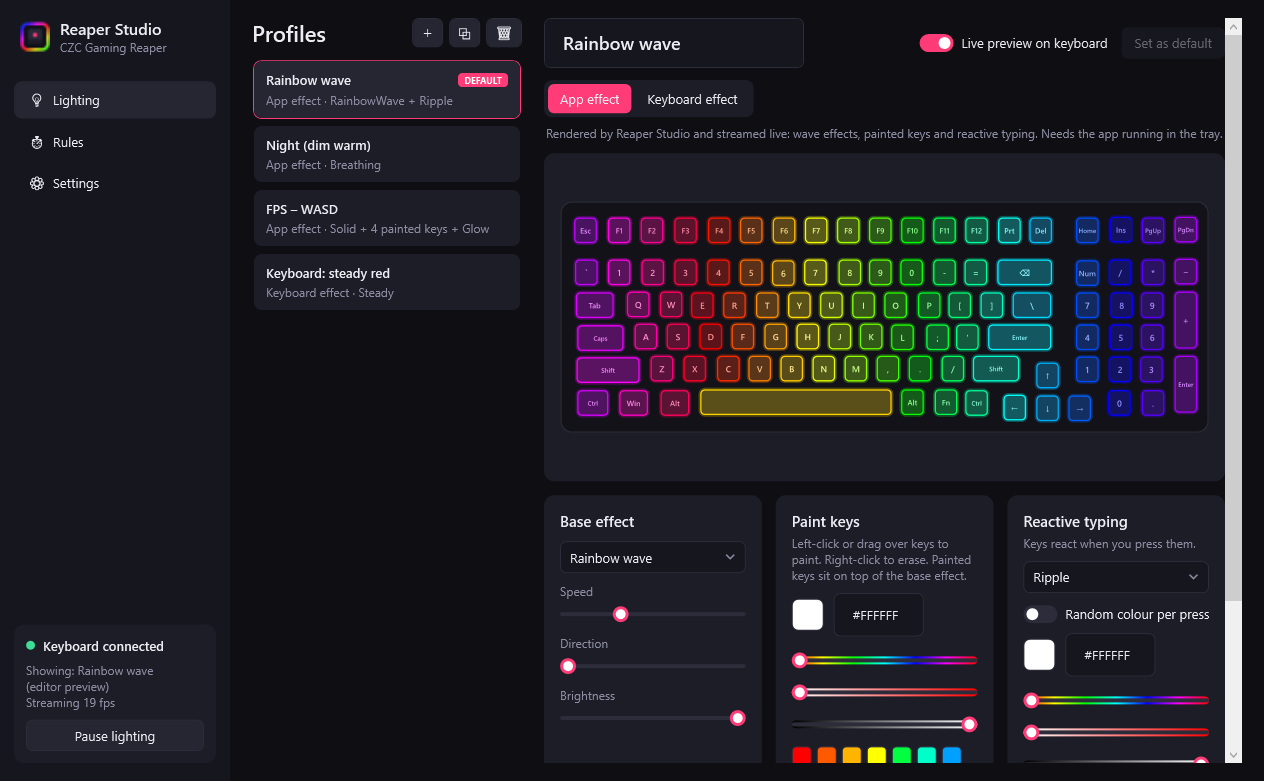
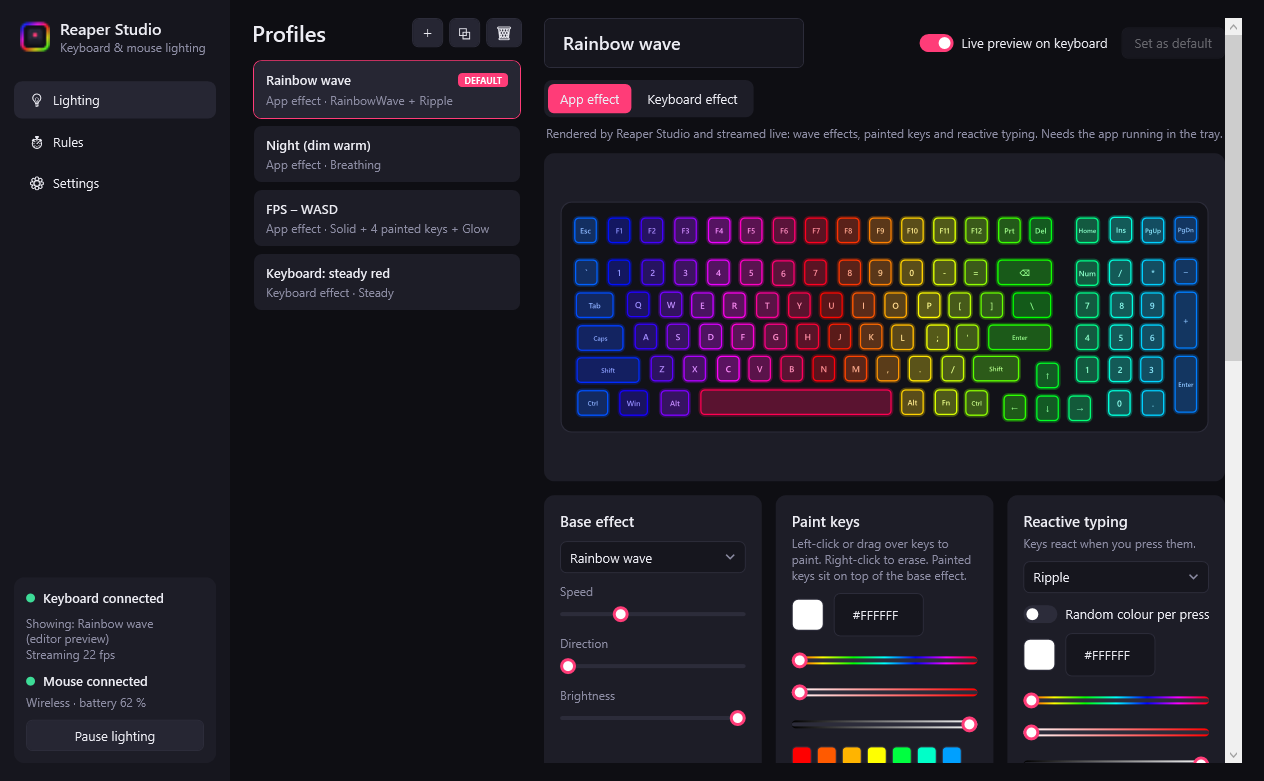
Describe Reaper Studio as a keyboard and mouse app

Changed region(s): [[0.432, 0.2766, 0.9873, 0.7682], [0.0, 0.7375, 0.1234, 0.9219], [0.0926, 0.0615, 0.1234, 0.0922]]

diff --git a/src/ReaperStudio/MainWindow.xaml b/src/ReaperStudio/MainWindow.xaml
@@ -19,7 +19,7 @@
                     <Image Source="Assets/app.ico" Width="30" Height="30" />
                     <StackPanel Margin="10,0,0,0">
                         <TextBlock Text="Reaper Studio" FontSize="16" FontWeight="SemiBold" />
-                        <TextBlock Text="CZC Gaming Reaper" Style="{StaticResource Muted}" />
+                        <TextBlock Text="Keyboard &amp; mouse lighting" Style="{StaticResource Muted}" />
                     </StackPanel>
                 </StackPanel>
                 <StackPanel DockPanel.Dock="Top">

diff --git a/README.md b/README.md
@@ -9,8 +9,8 @@
 </p>
 
 <p align="center">
-  A modern lighting studio for the <b>CZC Gaming Reaper</b> keyboard: per-key effects,
-  reactive typing, and lighting that changes with the time of day or the game you're playing.
+  A modern lighting studio for your keyboard and mouse: per-key effects, reactive typing,
+  a mouse that matches your keys, and lighting that changes with the time of day or the game you're playing.
 </p>
 
 <p align="center">
@@ -19,9 +19,10 @@
 
 ---
 
-The keyboard ships with a dated Windows tool that can only pick one effect at a time. Reaper Studio
-replaces it. It talks to the keyboard directly over USB, using a protocol reverse-engineered from the
-original software and documented in [`docs/keyboard/PROTOCOL.md`](docs/keyboard/PROTOCOL.md).
+Each device ships with its own vendor tool: the keyboard's is dated and can only pick one effect at a
+time, and the mouse needs a separate app. Reaper Studio replaces both and drives them together from one
+set of profiles and rules. It talks to each device directly over USB, using protocols taken from the
+original software and documented per device (see [Supported devices](#supported-devices)).
 
 ## Features
 
@@ -44,6 +45,13 @@ With *Live preview* on, the keyboard shows your edits as you make them.
 
 ![Lighting page](docs/images/lighting.png)
 
+### Mouse
+Below the keyboard, each profile decides what the mouse shows: follow the keyboard, its own colours
+(per zone, or one effect over the whole mouse), or nothing at all. The cable and wireless can each have
+their own look and brightness.
+
+![Mouse editor](docs/images/mouse.png)
+
 ### Rules
 Rule types have a fixed priority: **app focused → app running → time of day**. Within one type,
 rules are checked top to bottom and the first match wins. When nothing matches, the default profile is used.
@@ -53,14 +61,27 @@ rules are checked top to bottom and the first match wins. When nothing matches, 
 ### Settings
 ![Settings page](docs/images/settings.png)
 
-## Other keyboards
-Reaper Studio is only tested on the CZC Gaming Reaper. The Reaper is a rebadged
-Royal Kludge RK98, so other Royal Kludge RGB boards (RK98, RK100, RK96, RK71, …)
-likely speak the same protocol, but they are **not supported yet**: their key
-layouts differ, and writing to an untested keyboard can brick it.
+## Supported devices
+
+| Device | Type | USB VID:PID | Status | Protocol |
+|---|---|---|---|---|
+| CZC Gaming Reaper | keyboard | `258A:00C1` | tested | [`docs/keyboard/PROTOCOL.md`](docs/keyboard/PROTOCOL.md) |
+| Glorious Model D Wireless | mouse | `258A:2012` (cable), `258A:2023` (dongle) | tested | [`docs/mouse/PROTOCOL.md`](docs/mouse/PROTOCOL.md) |
+
+Reaper Studio drives one keyboard and one mouse at a time. Either can be missing; the other keeps working.
+
+**Other keyboards.** The Reaper is a rebadged Royal Kludge RK98, so other Royal Kludge RGB boards
+(RK98, RK100, RK96, RK71, …) likely speak the same protocol, but they are **not supported yet**: their
+key layouts differ, and writing to an untested keyboard can brick it.
 See [docs/keyboard/compatible-keyboards.md](docs/keyboard/compatible-keyboards.md)
-for the evidence and what adding a model would take. If you own one of these
-boards and want to help, open an issue with its USB VID:PID.
+for the evidence and what adding a model would take.
+
+**Other mice.** Glorious Core drives these mice with the same code and the same HID interface as the
+Model D Wireless: Model O / O- / D- Wireless, Model O / D Pro Wireless, Model O 2 Pro and D 2 Pro
+(including the 4k/8kHz editions) and Series One Pro Wireless. They likely work, but their LED zones
+may differ and they are **not enabled yet**.
+
+If you own one of these devices and want to help, open an issue with its USB VID:PID.
 
 ## Getting started
 
@@ -105,6 +126,13 @@ Use **Quit** in the tray menu to exit. Settings live in `%APPDATA%\ReaperStudio\
                                   HID feature report 0x0A, 62-byte chunks, 2 ms apart
                                                             ▼
                                                  CZC Gaming Reaper (258A:00C1)
+
+ active profile ──► mouse thread: mouse settings → effect + brightness commands
+                    (only when something changed, only the commands that differ)
+                                                            ▼
+                         HID feature report 0x00, acknowledged, retried while asleep
+                                                            ▼
+                         Glorious Model D Wireless (258A:2012 cable / 258A:2023 dongle)
 ```
 
 - **Keyboard effects** are selected once; the firmware animates them.
